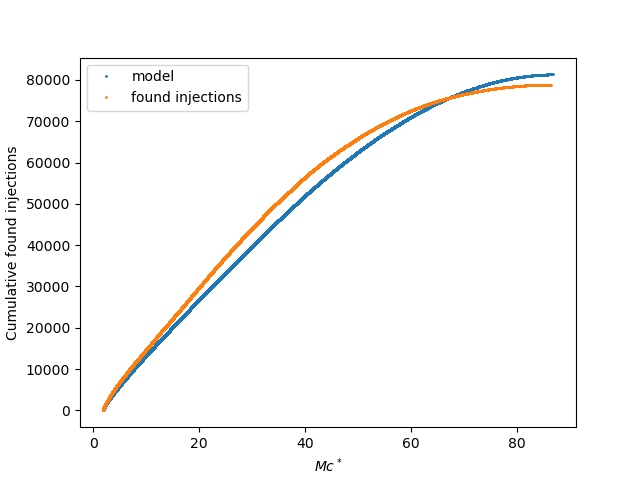
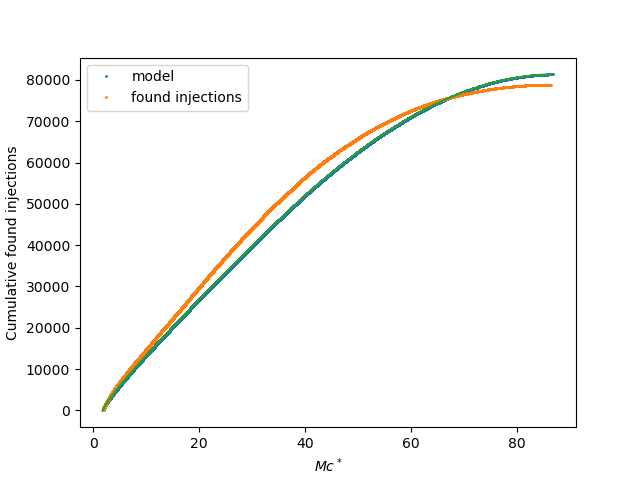
new cumulative distributions

diff --git a/class_found_inj_fullexpansion.py b/class_found_inj_fullexpansion.py
@@ -172,7 +172,7 @@ class Found_injections:
         
         return pol * Mc**(5/6)
     
-    def Dmid_inter(self, m1, m2, dL, cte):
+    def Dmid_inter(self, m1, m2, dL, cte , a_20, a_01, a_22):
         """
         Dmid values (distance where Pdet = 0.5) as a function of the masses 
         in the detector frame (our first guess)
@@ -247,14 +247,17 @@ class Found_injections:
         
         Note that in order to make the integral, we had to use an interpolation for the redshift, just so we can
         write Dmid as a function of dL and then integrate over d(dL)
+
         Parameters
         ----------
         params : parameters of the Dmid function
+
         Returns
         -------
         Expected number of found injections
+
         """
-        
+        cte , a_20, a_01, a_22 = params[0], params[1], params[2], params[3]
         # quad_fun = lambda m1, m2, dL_int: self.Ntotal * self.fun_m_pdf(m1, m2) *  \
         #     self.interp_dL(dL_int) * self.sigmoid(dL_int, self.Dmid_inter(m1, m2, dL_int, params)) 
         
@@ -262,7 +265,7 @@ class Found_injections:
         # return integrate.nquad( quad_fun, [[self.mmin, self.mmax], lim_m2, [0, self.dLmax]], full_output=True)[0]
         
         # we try this sencond method for Nexp
-        Nexp = np.sum(self.sigmoid(self.dL, self.Dmid_mchirp(self.m1, self.m2, self.z, params)))
+        Nexp = np.sum(self.sigmoid(self.dL, self.Dmid_mchirp_expansion(self.m1, self.m2, self.z, cte , a_20, a_01, a_22)))
         print(Nexp)
         return Nexp
     
@@ -286,13 +289,18 @@ class Found_injections:
     def Lambda(self, params):
         """
         Number density at found injections
+
         Parameters
         ----------
         params : parameters of the Dmid function
+
         Returns
         -------
         Number density at found injections aka lambda(D,m1,m2)
+
         """
+        cte , a_20, a_01, a_22 = params[0], params[1], params[2], params[3]
+        
         dL = self.dL[self.found_any]
         dL_pdf = self.dL_pdf[self.found_any]
         m_pdf = self.m_pdf[self.found_any]
@@ -301,55 +309,62 @@ class Found_injections:
         m2 = self.m2[self.found_any]
         
         # print(self.sigmoid(dL, self.Dmid_mchirp(m1, m2, z, cte)))
-        return self.sigmoid(dL, self.Dmid_mchirp(m1, m2, z, params)) * m_pdf * dL_pdf * self.Ntotal
+        return self.sigmoid(dL, self.Dmid_mchirp_expansion(m1, m2, z, cte , a_20, a_01, a_22)) * m_pdf * dL_pdf * self.Ntotal
+         
     
     def logL(self, in_param):
         """
         log likelihood of the expected density of found injections
+
         Parameters
         ----------
         in_param : parameters that will be optimized. It should be cte of self.Dmid(cte).
         We will use exp(cte) in the minimization, so we have to remember then to take log(opt_cte).
+
         Returns
         -------
         TYPE
             DESCRIPTION.
+
         """
-        cte = np.exp(in_param[0]) 
-        lnL = -self.Nexp(cte) + np.sum(np.log(self.Lambda(cte)))
+        params = np.exp(in_param) 
+        lnL = -self.Nexp(params) + np.sum(np.log(self.Lambda(params)))
         print(lnL)
         # print(-self.Nexp(cte))
         # print(np.sum(np.log(self.Lambda(cte))))
         return lnL
         
     
-    def MLE(self, cte_guess, methods):
+    def MLE(self, cte_guess, a20_guess, a01_guess, a22_guess, methods):
         """
         minimization of -logL 
+
         Parameters
         ----------
         cte_guess : initial guess value for cte of Dmid
         methods : scipy method used to minimize -logL
+
         Returns
         -------
         cte_res : optimized value for cte of Dmid.
         -min_likelihood : maximum log likelihood. 
+
         """
         res = opt.minimize(fun=lambda in_param: -self.logL(in_param), 
-                           x0=np.array([np.log(cte_guess)]), 
+                           x0=np.array([np.log(cte_guess), np.log(a20_guess), np.log(a01_guess), np.log(a22_guess)]), 
                            args=(), 
                            method=methods)
         
-        cte_res = np.exp(res.x) 
+        cte_res, a20_res, a01_res, a22_res = np.exp(res.x) 
         min_likelihood = res.fun                
-        return cte_res, -min_likelihood
+        return cte_res, a20_res, a01_res, a22_res, -min_likelihood
     
     def cumulative_dist(self, params, var = 'dL'):
         #params = self.MLE(cte_guess, a20_guess, a01_guess, methods='Nelder-Mead')[:-1]
         #params = 79.70666689915684
         
         dic = {'dL': self.dL, 'Mc': self.Mc, 'Mtot': self.Mtot, 'eta': self.eta}
-        cte  = params[0]
+        cte , a_20, a_01, a_22 = params[0], params[1], params[2], params[3]
             
         #cumulative distribution over the desired variable
         indexo = np.argsort(dic[var])
@@ -358,7 +373,7 @@ class Found_injections:
         m1o = self.m1[indexo]
         m2o = self.m2[indexo]
         zo = self.z[indexo]
-        cmd = np.cumsum(self.sigmoid(dLo, self.Dmid_mchirp(m1o, m2o, zo, cte)))
+        cmd = np.cumsum(self.sigmoid(dLo, self.Dmid_mchirp_expansion(m1o, m2o, zo, cte , a_20, a_01, a_22)))
         
         var_found = dic[var][self.found_any]
         indexo_found = np.argsort(var_found)
@@ -366,7 +381,7 @@ class Found_injections:
         
         real_found_inj = np.arange(len(var_foundo))+1
         
-        cdf = lambda var_i : np.cumsum(self.sigmoid(self.dL[var_i], self.Dmid_mchirp(self.m1[var_i], self.m2[var_i], self.z[var_i], cte )))
+        cdf = lambda var_i : np.cumsum(self.sigmoid(self.dL[var_i], self.Dmid_mchirp_expansion(self.m1[var_i], self.m2[var_i], self.z[var_i], cte , a_20, a_01, a_22)))
         
         plt.figure()
         plt.plot(varo, cmd, '.', markersize=2, label='model')
@@ -393,6 +408,11 @@ except OSError as e:
     if e.errno != errno.EEXIST:
         raise
 
+try:
+    os.mkdir('dmid_expansion_mchirp_power')
+except OSError as e:
+    if e.errno != errno.EEXIST:
+        raise
 
 plt.close('all')
 
@@ -401,14 +421,17 @@ file = h5py.File('endo3_bbhpop-LIGO-T2100113-v12.hdf5', 'r')
 data = Found_injections(file)
 
 cte_guess = 70
+a20_guess= 0.05
+a01_guess= 0.05
+a22_guess = 0.5
 
-cte_opt, maxL = data.MLE(cte_guess, methods='Nelder-Mead')
+cte_opt, a20_opt, a01_opt, a22_opt, maxL = data.MLE(cte_guess, a20_guess, a01_guess, a22_guess, methods='Nelder-Mead')
 
-results = np.column_stack((cte_opt, maxL))
-header = "cte_opt, maxL"
-np.savetxt('dmid_const_mchirp_power/dmid(m)_results_2method.dat', results, header = header, fmt='%s')
+results = np.column_stack((cte_opt, a20_opt, a01_opt, a22_opt, maxL))
+header = "cte_opt, a20_opt, a01_opt, a22_opt, maxL"
+np.savetxt('dmid_expansion_mchirp_power/dmid(m)_results_2method.dat', results, header = header, fmt='%s')
 
-params = np.loadtxt('dmid_const_mchirp_power/dmid(m)_results_2method.dat')[:-1]
+params = np.loadtxt('dmid_expansion_mchirp_power/dmid(m)_results_2method.dat')[:-1]
 
 stat_Mtot, pvalue_Mtot = data.cumulative_dist(params, 'Mtot')
 stat_Mc, pvalue_Mc = data.cumulative_dist(params, 'Mc')
